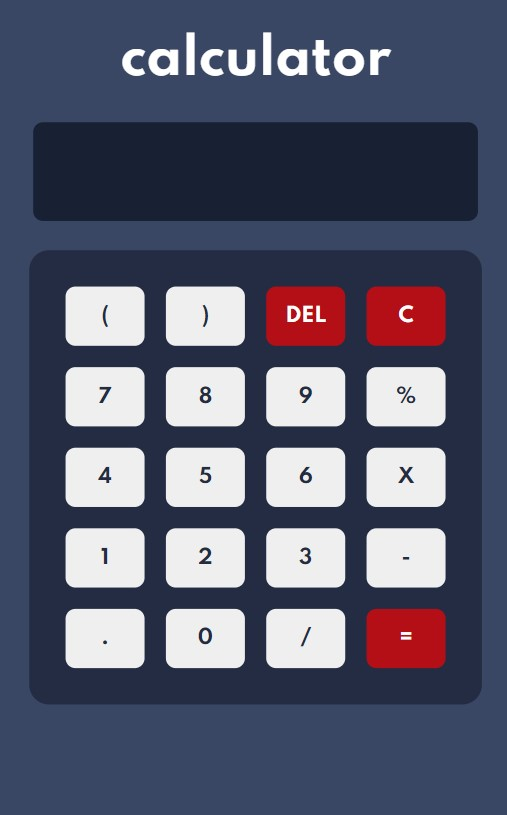
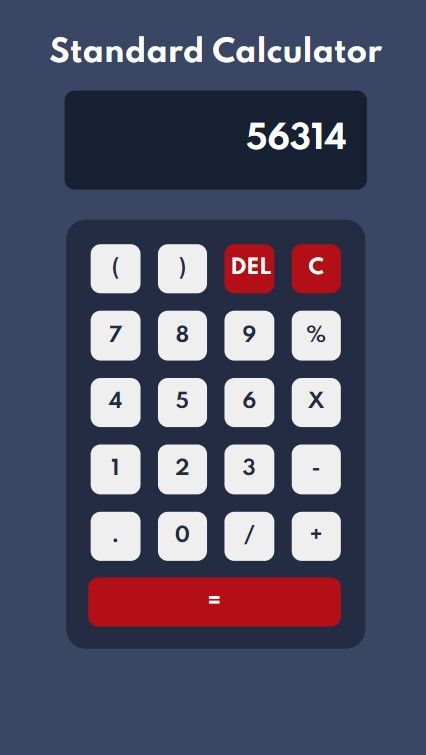
Added + operator in calculator

diff --git a/style.css b/style.css
@@ -81,14 +81,18 @@ input {
 @media (max-width: 470px) {
   .header > h1 {
     color: #fff;
-    margin-top: 180px;
+    margin-top: 200px;
     font-family: "Spartan";
-    font-size: 40px;
+    font-size: 35px;
   }
   input {
     width: 380px;
   }
 
+  #result {
+    width: 312px;
+    justify-content: center;
+  }
   button {
     width: 60px;
     height: 50px;
@@ -100,11 +104,16 @@ input {
     color: #fff;
     margin-top: 180px;
     font-family: "Spartan";
-    font-size: 35px;
+    font-size: 30px;
   }
 
   input {
     width: 305px;
+  }
+
+  #result {
+    width: 255px;
+    justify-content: center;
   }
 
   button {
